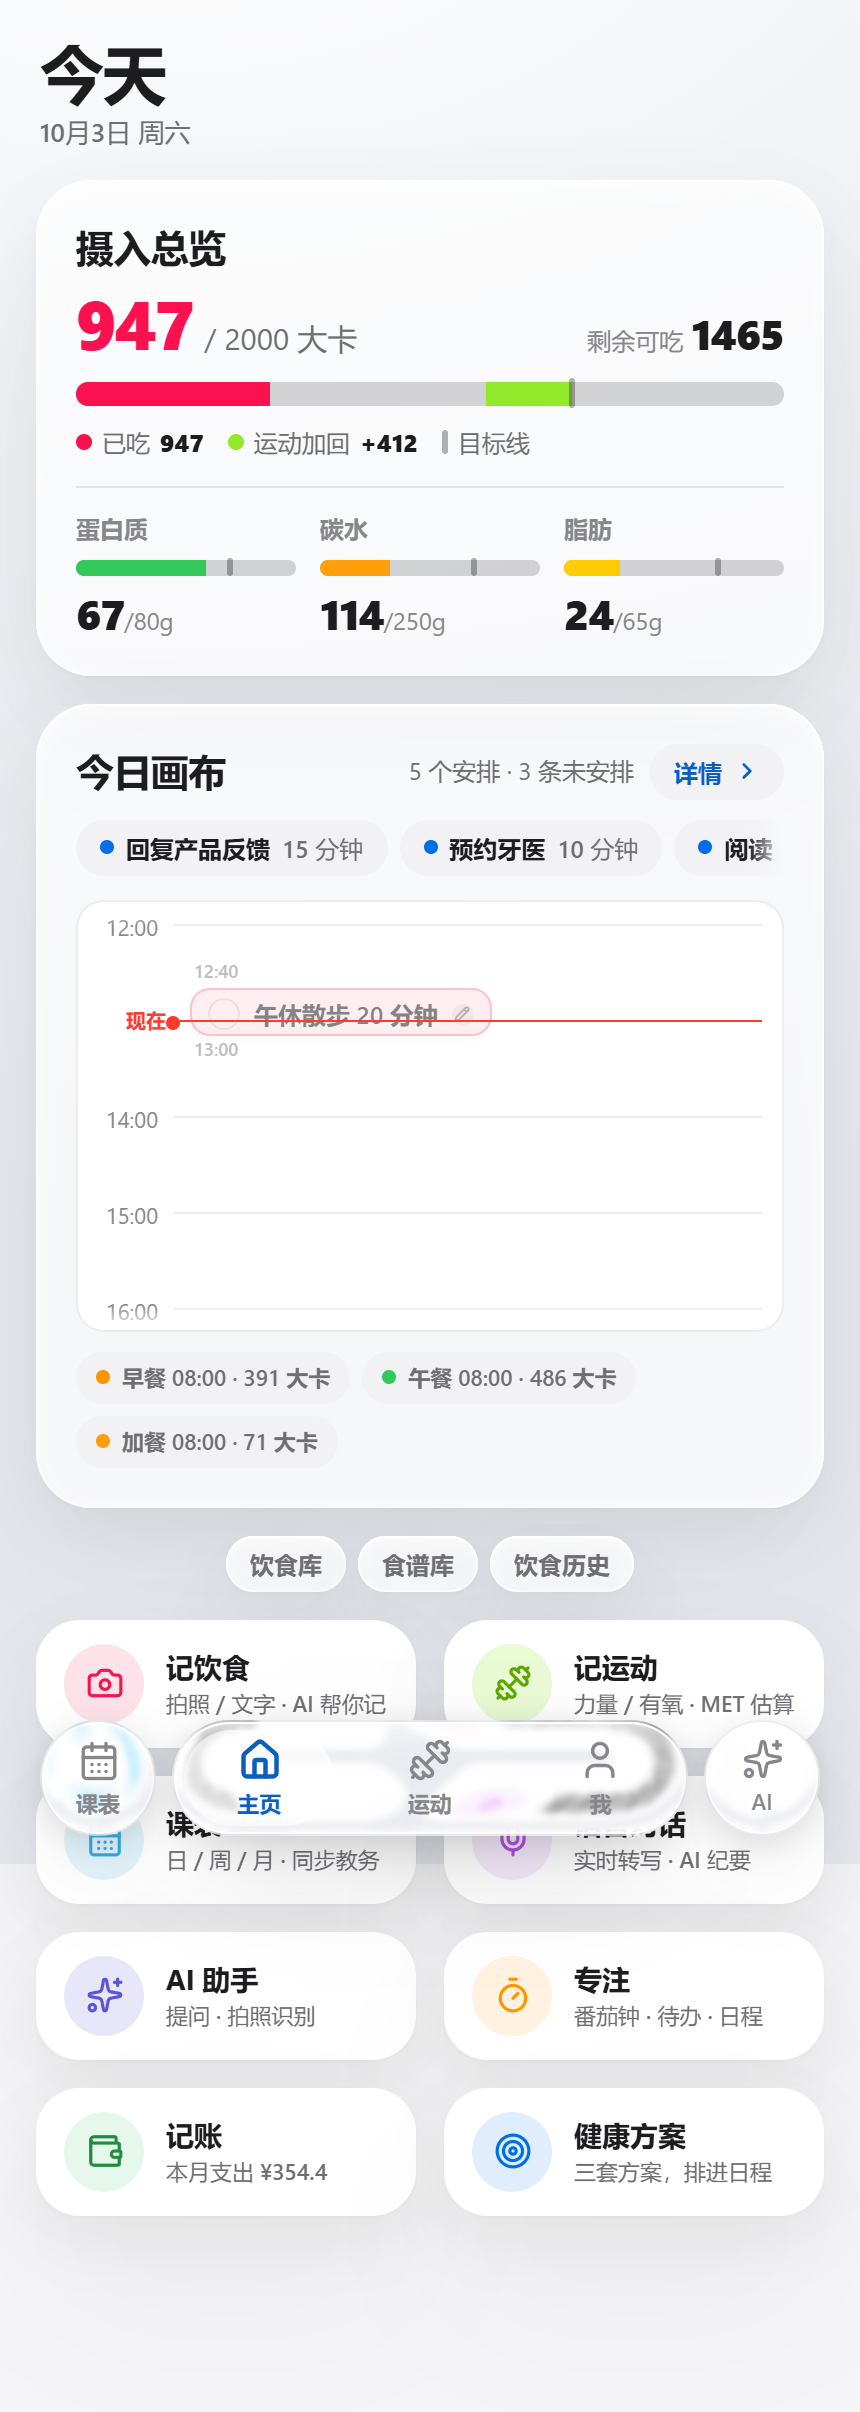
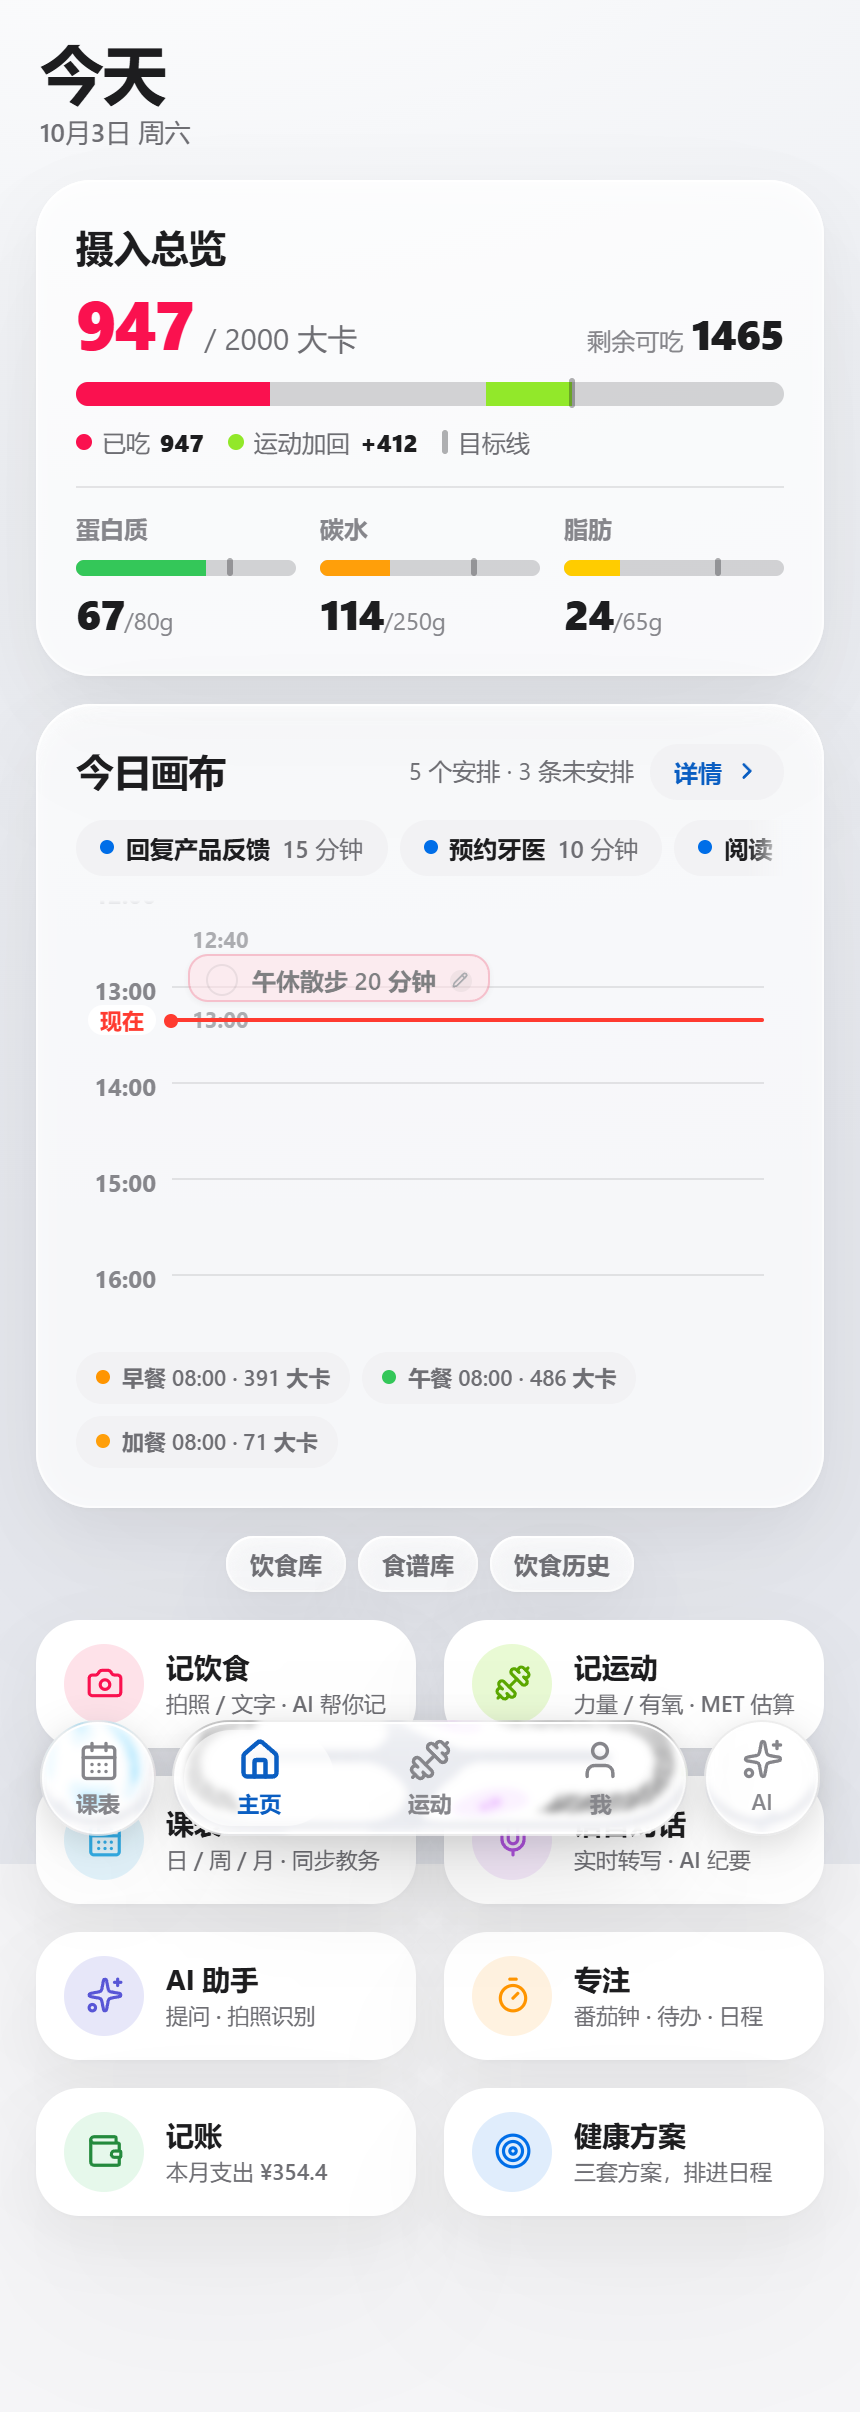
style(canvas): 画布按「摄入总览」的设计语言对齐（时间排版 + 标记几何）
时间刻度与块起止时间是这一屏里最该读清的数字，却是最弱的排版：刻度 11px / 常规字重，块的起止在紧凑档只有 9px，且都用最浅一档灰（--text-3，白底 3.6:1）。现在刻度按「摄入总览」里 .m-label 那一档（--fs-caption / 700 / --text-3），块的起止按数字待遇（--fs-caption，紧凑档 --fs-micro / 700 / --text-2，白底 5.07:1，配模板上的 tabular-nums）。

「现在」线改为实底 2px + 满圆角，直接引用「摄入总览」那枚参考线胶囊的几何 —— 从前是零高度盒子的 1.5px 上边框，既不能圆角也细得几乎看不见。刻度线同步从 0.5px 的 --line 升到与 .hr 同规格的 1px / --text-1 10%。

新增 bare 开关：画布嵌在一张现成卡片里（主页「今日画布」）时不再自带底色与描边，消掉「卡片套卡片」，与「摄入总览」把条直接铺在卡面上是同一种做法。之所以交给父级声明而不是写死：/todos 页的 .tlwrap 没有任何卡片样式，画布自己就是那层表面，删掉就没底了。

README 手机端截图同步重出。

Changed region(s): [[0.1209, 0.3731, 0.5744, 0.5597]]

diff --git a/src/components/todo/CanvasTimeline.vue b/src/components/todo/CanvasTimeline.vue
@@ -33,8 +33,17 @@ const props = withDefaults(
     dropMin?: number | null
     selectedId?: number | null
     compact?: boolean
+    /**
+     * 画布已嵌在一张现成的卡片里（主页「今日画布」卡）：**不画自己的壳**。
+     *
+     * 为什么不干脆删掉 `.ctl` 的底色与描边：`/todos` 页的 `.tlwrap` 没有任何卡片样式，
+     * 画布自己就是那一层表面 —— 删了它那边就只剩刻度线浮在页面渐变上。
+     * 所以「要不要自带表面」必须由**放在哪里**决定，交给父级声明，而不是写死在组件里。
+     * 顺带消掉的是「卡片套卡片」：主页那张卡里本不该再套一个带边框的盒子。
+     */
+    bare?: boolean
   }>(),
-  { ghosts: () => [], dropMin: null, selectedId: null, compact: false },
+  { ghosts: () => [], dropMin: null, selectedId: null, compact: false, bare: false },
 )
 
 const emit = defineEmits<{
@@ -97,6 +106,14 @@ const nowTop = computed(() => nowMin_.value * pxPerMin.value)
 function labelMasked(min: number): boolean {
   return isToday.value && Math.abs(min * pxPerMin.value - nowTop.value) < 16
 }
+
+/*
+ * 关于「块的起止时间标会不会撞上刻度」：不会，也不需要因此隐藏。
+ * 刻度栏在 `.inner` 的 0–40px，而块区从 56px 起（见 .blocks），所以两者的文字是**两列**、
+ * 横向根本不相交（实测首页与 /todos 的 32 枚标签零重叠）。
+ * 曾经试过「落在整点上就不写」的规则来消重影，但那只隐掉信息（12:00–13:00 这类整块两端
+ * 都会消失）而没有任何碰撞可修，故撤掉。
+ */
 
 /* ---------- 布局：重叠贪心分列；≥3 列收成叠层卡 ---------- */
 
@@ -402,7 +419,7 @@ onBeforeUnmount(() => {
 </script>
 
 <template>
-  <div class="ctl" :class="{ compact }" :style="lineVars" @wheel="onWheel">
+  <div class="ctl" :class="{ compact, bare }" :style="lineVars" @wheel="onWheel">
     <div ref="scroller" class="scroll" data-testid="canvas-scroll">
       <div class="inner" :style="{ height: `${totalPx}px` }" data-rubber-content>
         <template v-for="h in hours" :key="h.min">
@@ -561,6 +578,14 @@ onBeforeUnmount(() => {
   overflow: hidden;
 }
 
+/* 嵌在现成卡片里（主页「今日画布」）：不画自己的壳，让刻度线与上下缘渐隐充当结构 ——
+   与「摄入总览」把条直接铺在卡面上是同一种做法。方形圆角一并归零，免得留下看不见的内圆角。 */
+.ctl.bare {
+  background: transparent;
+  border: 0;
+  border-radius: 0;
+}
+
 .scroll {
   height: 100%;
   overflow-y: auto;
@@ -582,30 +607,39 @@ onBeforeUnmount(() => {
   margin: 0 10px 0 0;
 }
 
+/* 刻度标签：与「摄入总览」里 `.m-label`（蛋白质 / 碳水 / 脂肪 那排）同一规格 ——
+   小号、半粗、最浅一档灰。「刻度」是标签角色，不是要读的数字。 */
 .hlab {
   position: absolute;
   left: 0;
   width: 40px;
   text-align: right;
   transform: translateY(-6px);
-  font-size: var(--fs-micro);
+  font-size: var(--fs-caption);
+  font-weight: 700;
   color: var(--text-3);
 }
 
+/* 刻度线：与「摄入总览」的 `.hr` 同规格（1px / --text-1 10%）。
+   原先是 0.5px 的 `--line`（7% 黑），在白卡上淡到几乎看不见；嵌卡（bare）之后刻度线
+   就是画布唯一的结构，所以升到项目里「分隔」这一角色真正在用的那一档。 */
 .hline {
   position: absolute;
   left: 48px;
   right: 0;
-  height: 0.5px;
-  background: var(--line);
+  height: 1px;
+  background: color-mix(in srgb, var(--text-1) 10%, transparent);
 }
 
 .nowline {
   position: absolute;
   left: 48px;
   right: 0;
-  height: 0;
-  border-top: 1.5px solid var(--danger);
+  /* 实底 + 满圆角：直接引用「摄入总览」那枚参考线胶囊的几何（细、实、全圆）。
+     从前是 1.5px 上边框 —— 零高度盒子描边既不能圆角，也细得几乎看不见。 */
+  height: 2px;
+  border-radius: var(--radius-full);
+  background: var(--danger);
   z-index: 2;
 }
 
@@ -613,25 +647,34 @@ onBeforeUnmount(() => {
   content: '';
   position: absolute;
   left: -4px;
-  top: -3.5px;
+  top: -2.5px;
   width: 7px;
   height: 7px;
   border-radius: 50%;
   background: var(--danger);
 }
 
+/* 「现在」胶囊：
+   宽度**随文字收缩**，左右内边距对称 —— 于是文字天生居中。
+   从前写死 `width: 40px; text-align: right`：那 40px 本来只是为了与左侧刻度栏右对齐，
+   但背景同样铺满这 40px，结果胶囊 40px 宽、文字被推到右缘，左内边距 18px、右 0。
+   定位改为「右缘贴住刻度栏右缘」：`right: 100%` 把右缘放到 .nowline 的左缘（= 48px），
+   再退 8px 就是刻度栏的右缘 40px —— 与 .hlab 同一列，且宽度不定也能对上。
+   垂直用 translateY(-50%) 锚在 .nowline（高 2px）的中心，与字号无关。 */
 .nowtag {
   position: absolute;
-  left: -44px;
-  top: -9px;
-  width: 40px;
-  text-align: right;
-  font-size: 10px;
+  right: 100%;
+  margin-right: 8px;
+  top: 1px;
+  transform: translateY(-50%);
+  padding: 2px 6px;
+  font-size: var(--fs-micro);
   font-weight: 700;
+  line-height: 1;
+  white-space: nowrap;
   color: var(--danger);
   background: var(--surface);
   border-radius: var(--radius-full);
-  padding: 1px 0;
 }
 
 .dropline {
@@ -707,14 +750,17 @@ onBeforeUnmount(() => {
   box-shadow: 0 0 0 2px var(--accent);
 }
 
-/* 起止时间标记：上方起点、下方终点；拖拽中高亮为实时时间 */
+/* 起止时间标记：上方起点、下方终点；拖拽中高亮为实时时间。
+   这是要读的**数字**，按「摄入总览」的规矩给足待遇 ——
+   中性深色 `--text-2`（白底 5.07:1）而不是最浅的 `--text-3`（3.6:1），字重 700 配 tabular
+   （模板上的 `.num`）。从前是 10px / 600 / `--text-3`，紧凑档更只有 9px —— 比字号阶梯最低档还小。 */
 .bmin {
   position: absolute;
   left: 2px;
-  font-size: 10px;
+  font-size: var(--fs-caption);
   line-height: 1;
-  font-weight: 600;
-  color: var(--text-3);
+  font-weight: 700;
+  color: var(--text-2);
   pointer-events: none;
   white-space: nowrap;
   /* 起止标记拖拽中高亮为实时时间：颜色跟上抬起节奏 */
@@ -722,11 +768,11 @@ onBeforeUnmount(() => {
 }
 
 .bmin-start {
-  top: -13px;
+  top: -15px;
 }
 
 .bmin-end {
-  top: calc(100% + 2px);
+  top: calc(100% + 3px);
 }
 
 .bmin.live {
@@ -1041,7 +1087,13 @@ onBeforeUnmount(() => {
   font-size: var(--fs-caption);
 }
 
+/* 紧凑档：降到 --fs-micro（11px）并抬高一点 —— 每小时只有 48px（`/todos` 在窄视口
+   也用这一档），字号再大就该压到邻块上了。 */
 .compact .bmin {
-  font-size: 9px;
+  font-size: var(--fs-micro);
+}
+
+.compact .bmin-start {
+  top: -13px;
 }
 </style>

diff --git a/src/components/home/HomeCanvas.vue b/src/components/home/HomeCanvas.vue
@@ -117,6 +117,7 @@ function onMove(t: Todo, startMin: number): void {
         :date="date"
         :todos="scheduled"
         compact
+        bare
         @select="onSelect"
         @edit="onSelect"
         @toggle="onToggle"
